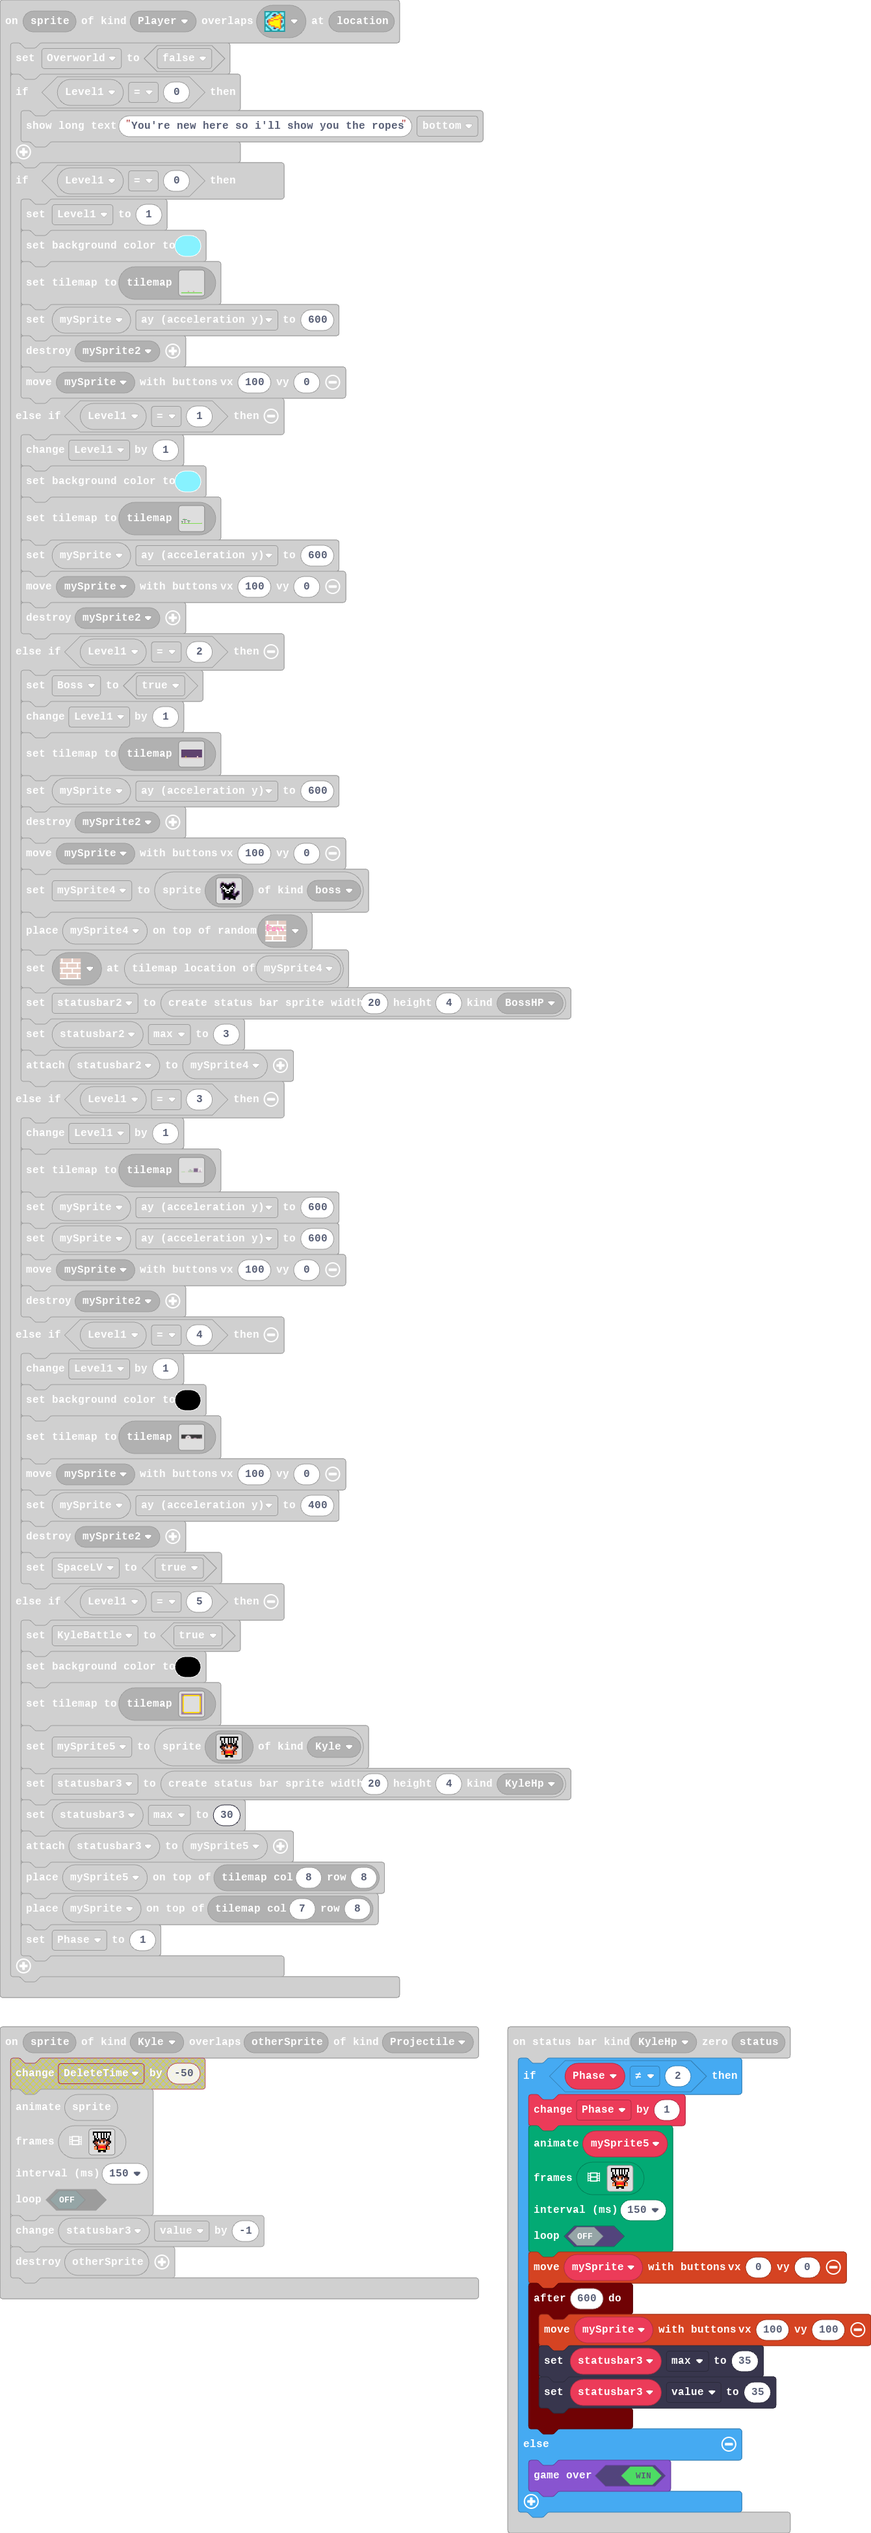
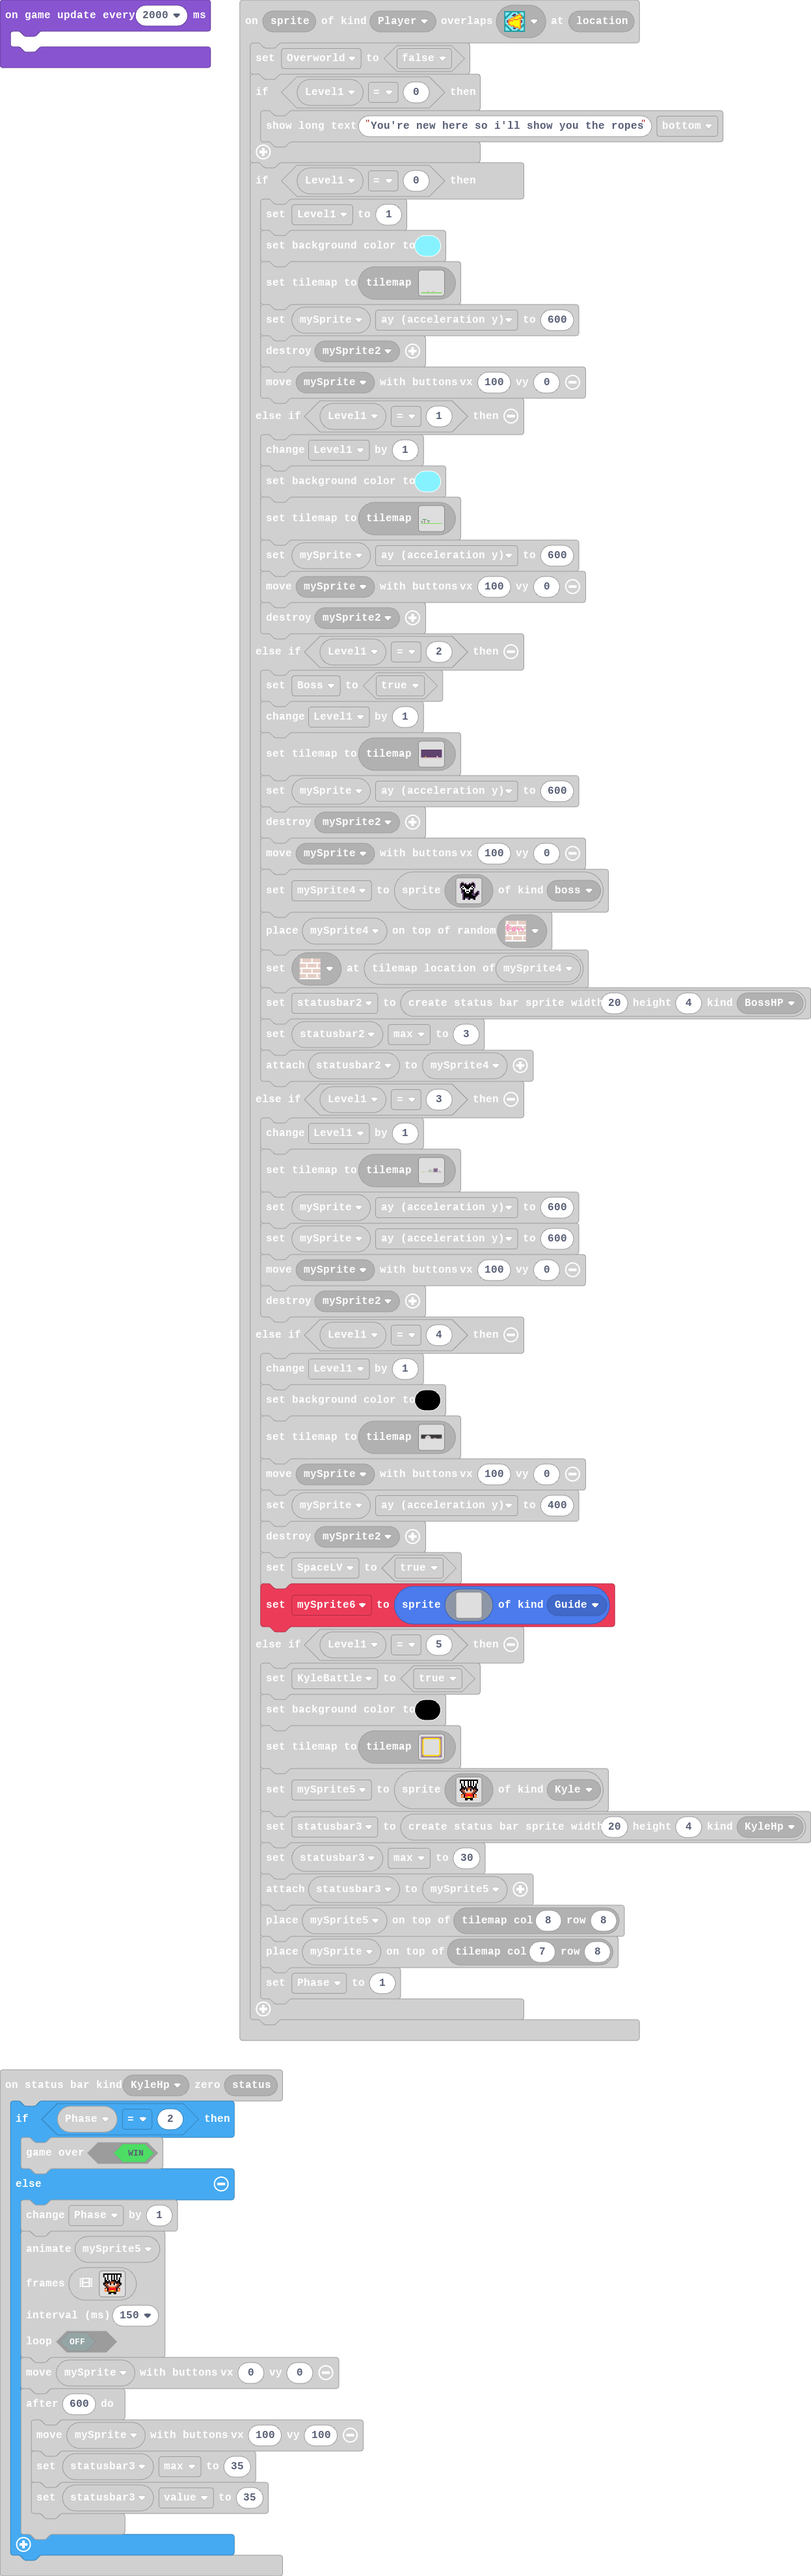
Update main.blocks, main.ts

diff --git a/main.ts b/main.ts
@@ -76,6 +76,24 @@ scene.onOverlapTile(SpriteKind.Player, assets.tile`myTile1`, function (sprite, l
         mySprite.ay = 400
         sprites.destroy(mySprite2)
         SpaceLV = true
+        mySprite6 = sprites.create(img`
+            . . . . . . . . . . . . . . . . 
+            . . . . . . . . . . . . . . . . 
+            . . . . . . . . . . . . . . . . 
+            . . . . . . . . . . . . . . . . 
+            . . . . . . . . . . . . . . . . 
+            . . . . . . . . . . . . . . . . 
+            . . . . . . . . . . . . . . . . 
+            . . . . . . . . . . . . . . . . 
+            . . . . . . . . . . . . . . . . 
+            . . . . . . . . . . . . . . . . 
+            . . . . . . . . . . . . . . . . 
+            . . . . . . . . . . . . . . . . 
+            . . . . . . . . . . . . . . . . 
+            . . . . . . . . . . . . . . . . 
+            . . . . . . . . . . . . . . . . 
+            . . . . . . . . . . . . . . . . 
+            `, SpriteKind.Guide)
     } else if (Level1 == 5) {
         KyleBattle = true
         scene.setBackgroundColor(15)
@@ -279,7 +297,9 @@ sprites.onOverlap(SpriteKind.Player, SpriteKind.BossProjectile, function (sprite
     info.changeLifeBy(-1)
 })
 statusbars.onZero(StatusBarKind.KyleHp, function (status) {
-    if (Phase != 2) {
+    if (Phase == 2) {
+        game.gameOver(true)
+    } else {
         Phase += 1
         animation.runImageAnimation(
         mySprite5,
@@ -361,8 +381,6 @@ statusbars.onZero(StatusBarKind.KyleHp, function (status) {
             statusbar3.max = 35
             statusbar3.value = 35
         })
-    } else {
-        game.gameOver(true)
     }
 })
 sprites.onDestroyed(SpriteKind.FirstEnemy, function (sprite) {
@@ -658,6 +676,7 @@ let Phase = 0
 let statusbar3: StatusBarSprite = null
 let mySprite5: Sprite = null
 let KyleBattle = false
+let mySprite6: Sprite = null
 let SpaceLV = false
 let statusbar2: StatusBarSprite = null
 let mySprite4: Sprite = null
@@ -803,6 +822,9 @@ game.onUpdateInterval(2000, function () {
             mySprite.setVelocity(0, 0)
         })
     }
+})
+game.onUpdateInterval(2000, function () {
+	
 })
 forever(function () {
     if (SBHP == 0) {
